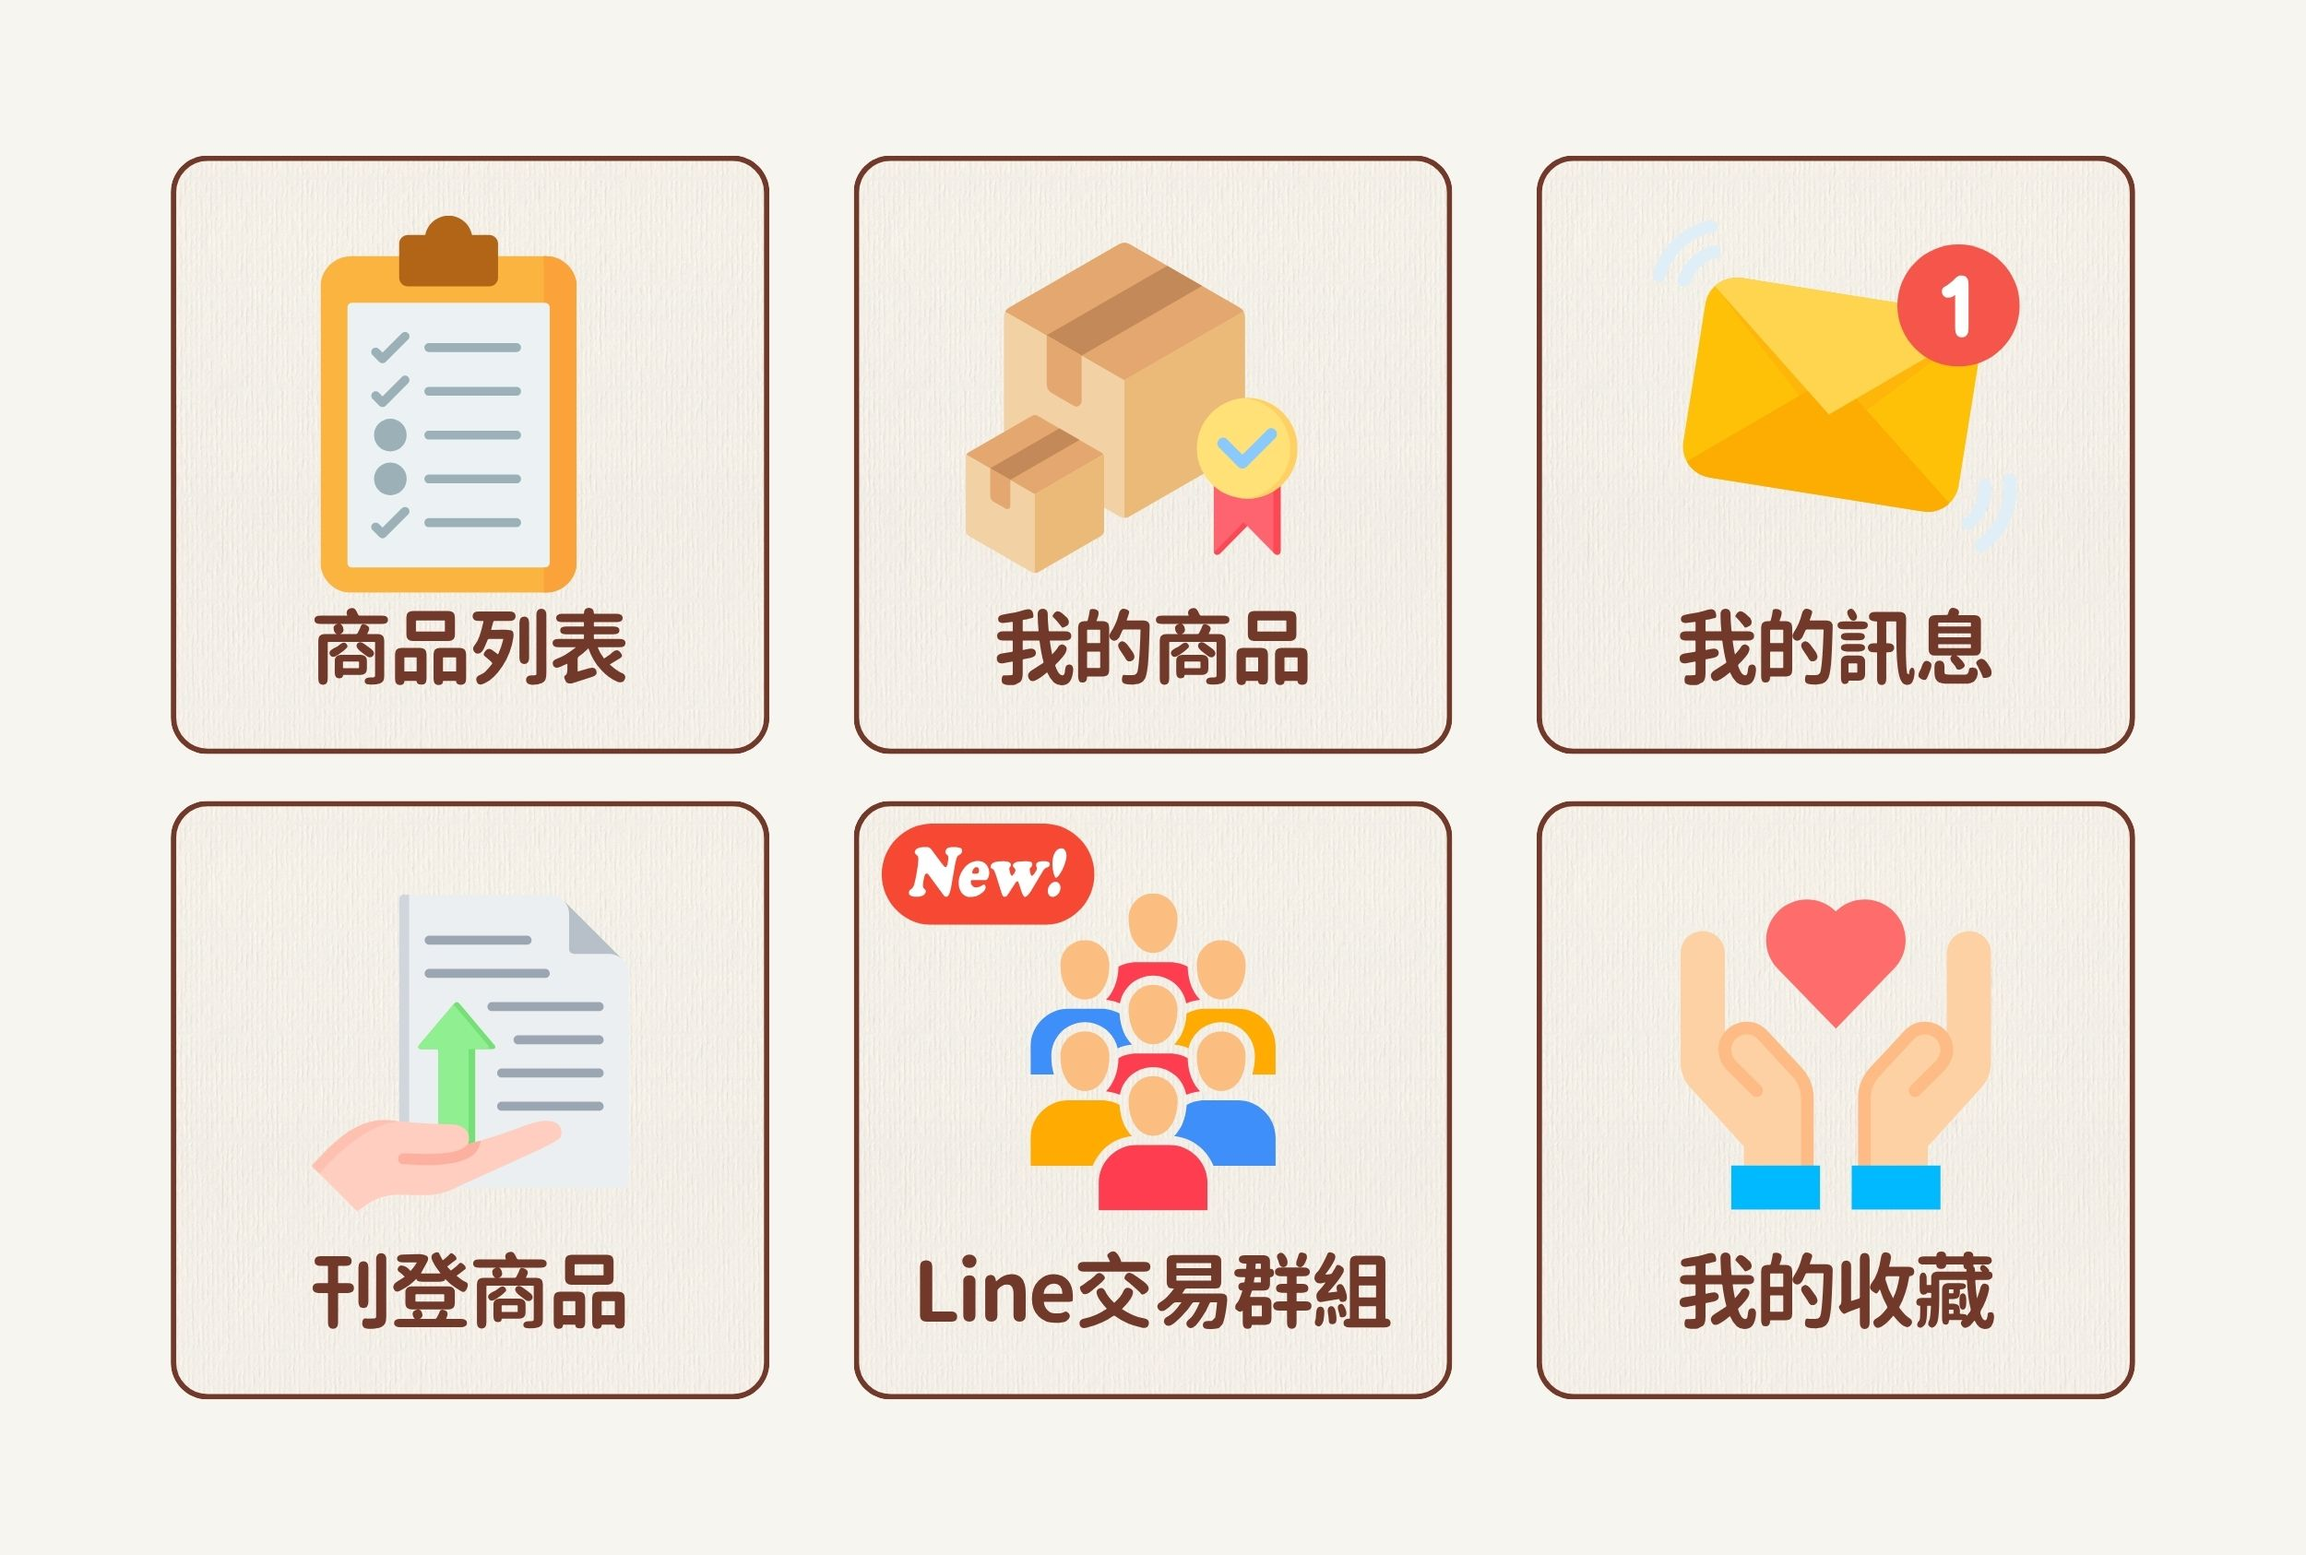
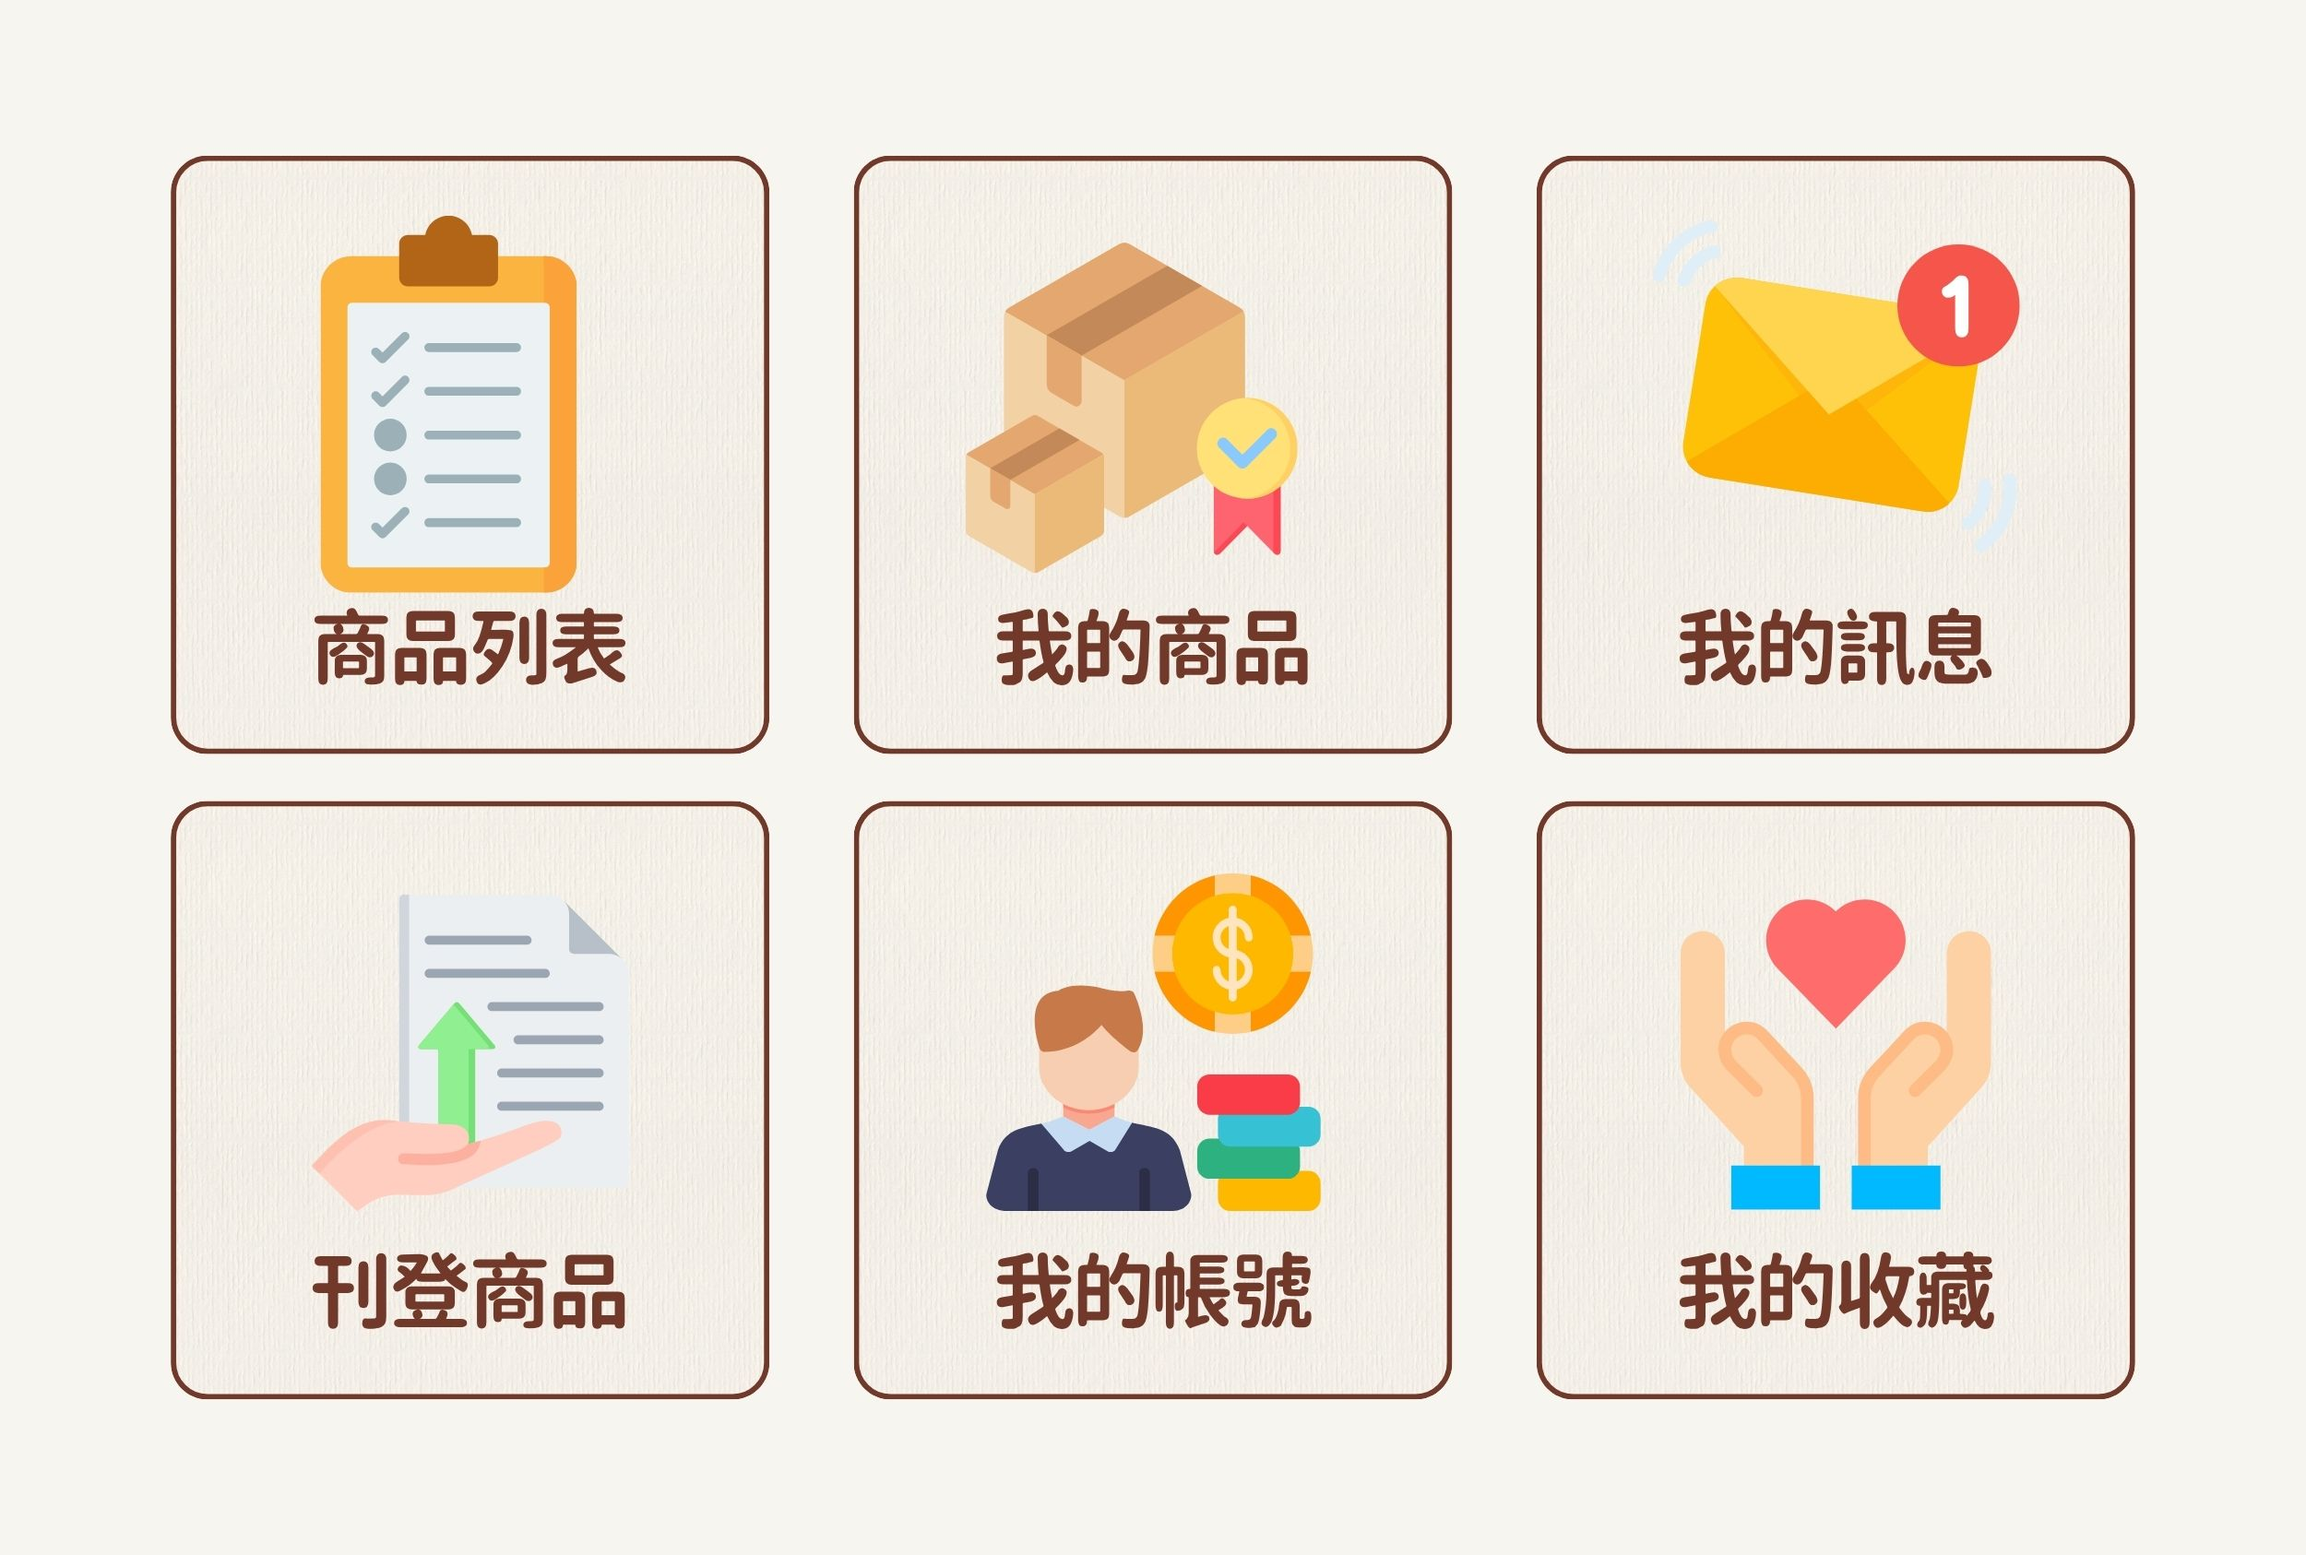
revert: roll back to 307ad12 state
Revert 41c1b39, 7411d26, da1ba9f, and 9437c40 to restore codebase as of 307ad12 without rewriting history.

Changed region(s): [[0.3744, 0.5243, 0.624, 0.8636]]

diff --git a/NeighborGoods.Frontend/src/features/listings/utils/lineShare.ts b/NeighborGoods.Frontend/src/features/listings/utils/lineShare.ts
@@ -369,37 +369,8 @@ const safeSharePickerAvailable = (liff: { isApiAvailable: (api: string) => boole
   }
 }
 
-type LiffClient = import('@line/liff').Liff
-
-/** 單例 liff.init；一律傳入 liffId，已初始化時視為成功（對齊 LineNotifyLiffPage） */
-const runLiffInitOnce = async (liff: LiffClient, liffId: string): Promise<boolean> => {
-  const trimmed = liffId.trim()
-  if (!trimmed) {
-    return false
-  }
-
-  if (!liffReadyPromise) {
-    liffReadyPromise = (async () => {
-      try {
-        await liff.init({ liffId: trimmed })
-        return true
-      } catch (err) {
-        try {
-          liff.getVersion()
-          return true
-        } catch {
-          console.warn('[liff] init failed', err)
-          return false
-        }
-      }
-    })()
-  }
-
-  return liffReadyPromise
-}
-
 export const ensureLiffReady = async () => {
-  const liffId = getLineLiffId()?.trim()
+  const liffId = getLineLiffId()
   if (!liffId) {
     return null
   }
@@ -417,7 +388,13 @@ export const ensureLiffReady = async () => {
     }
   }
 
-  const ok = await runLiffInitOnce(liff, liffId)
+  if (!liffReadyPromise) {
+    liffReadyPromise = liff
+      .init({ liffId })
+      .then(() => true)
+      .catch(() => false)
+  }
+  const ok = await liffReadyPromise
   if (!ok) {
     resetLiffReadyCache()
     return null
@@ -524,21 +501,25 @@ export const testLiffInitOnCurrentPage = async (): Promise<ListingPageLiffInitTe
   }
 }
 
-/** 分享頁：一律走 runLiffInitOnce 傳入 liffId（不僅靠 getVersion 提早返回） */
+/** 分享頁專用：一律明確 init（對齊 LiffDebugPage.runLiffInitAttempt / LineNotifyLiffPage） */
 export const initLiffForFlexShare = async () => {
-  const liffId = getLineLiffId()?.trim()
+  const liffId = getLineLiffId()
   if (!liffId || !isLiffEndpointPath()) {
     return null
   }
 
+  resetLiffReadyCache()
   const liffMod = await import('@line/liff')
   const liff = liffMod.default
-  const ok = await runLiffInitOnce(liff, liffId)
-  if (!ok) {
-    resetLiffReadyCache()
+  try {
+    await liff.init({ liffId })
+    liffReadyPromise = Promise.resolve(true)
+    return liff
+  } catch (err) {
+    liffReadyPromise = Promise.resolve(false)
+    console.warn('[listing flex share] liff.init failed', err)
     return null
   }
-  return liff
 }
 
 const openLineUrlShareWindow = (shareUrl: string) => {

diff --git a/NeighborGoods.Frontend/src/features/listings/pages/ListingShareLiffPage.tsx b/NeighborGoods.Frontend/src/features/listings/pages/ListingShareLiffPage.tsx
@@ -2,7 +2,6 @@ import { useEffect, useMemo, useState } from 'react'
 import { useLocation, useNavigate } from 'react-router-dom'
 import {
   clearListingSharePending,
-  isListingShareUrlReady,
   resolveListingShareParams,
 } from '@/features/listings/listingShareSession'
 import { shareListingToLineFlexOnly } from '@/features/listings/utils/lineShare'
@@ -16,25 +15,14 @@ export const ListingShareLiffPage = () => {
   const [phase, setPhase] = useState<SharePhase>('loading')
   const [message, setMessage] = useState('準備分享中…')
 
-  const shareUrlReady = useMemo(
-    () => isListingShareUrlReady(location.pathname, location.search),
-    [location.pathname, location.search],
-  )
-
   const shareParams = useMemo(
-    () => (shareUrlReady ? resolveListingShareParams(location.search) : null),
-    [location.search, shareUrlReady],
+    () => resolveListingShareParams(location.search),
+    [location.search],
   )
 
   const returnTo = shareParams?.returnTo ?? '/listings'
 
   useEffect(() => {
-    if (!shareUrlReady) {
-      setPhase('loading')
-      setMessage('準備分享中…')
-      return
-    }
-
     let disposed = false
 
     void (async () => {
@@ -99,7 +87,7 @@ export const ListingShareLiffPage = () => {
     return () => {
       disposed = true
     }
-  }, [shareParams, shareUrlReady])
+  }, [shareParams])
 
   return (
     <main className="mx-auto flex min-h-[50vh] max-w-md flex-col justify-center gap-4 px-4 py-8">

diff --git a/NeighborGoods.Frontend/src/features/listings/listingShareSession.ts b/NeighborGoods.Frontend/src/features/listings/listingShareSession.ts
@@ -132,10 +132,6 @@ export const listingShareEntryNeedsCleanup = (pathname: string, search: string):
   return false
 }
 
-/** 分享流程可開始：已在 `/` 且 URL 不需再清理（避免 messy liff.state 上搶跑 init） */
-export const isListingShareUrlReady = (pathname: string, search: string): boolean =>
-  pathname === '/' && !listingShareEntryNeedsCleanup(pathname, search)
-
 export const buildCleanListingShareEntrySearch = (search: string): string => {
   const raw = search.startsWith('?') ? search.slice(1) : search
   const params = new URLSearchParams(raw)

diff --git a/infra/line/README.md b/infra/line/README.md
@@ -10,9 +10,8 @@ This folder contains a PowerShell script that creates and deploys one LINE rich 
 
 - A valid LINE Messaging API channel access token
 - PowerShell 7+ (recommended)
-  - Rich menu image in supported size/format
+- A rich menu image in supported size/format
   - Script uses full-size 6-area layout: `2500x1686` (2 rows x 3 columns)
-  - Messaging API max file size: **1 MB** (management console allows larger files)
   - Content type must match file:
     - PNG: `image/png`
     - JPG/JPEG: `image/jpeg`
@@ -20,12 +19,12 @@ This folder contains a PowerShell script that creates and deploys one LINE rich 
 ## Actions configured in this script
 
 - Row 1, Area 1: open listings entry (`uri`)
-  - If `LiffUrl` is provided (e.g. `https://liff.line.me/{LiffId}`), URI areas for listings/create/favorites use path links `liff.line.me/{LiffId}/listings` etc.
+  - If `LiffUrl` is provided (e.g. `https://liff.line.me/{LiffId}`), all four URI areas use path links `liff.line.me/{LiffId}/listings` etc.
   - Otherwise fallback to `$WebBaseUrl` + path
 - Row 1, Area 2: postback `action=myListings`
 - Row 1, Area 3: postback `action=myMessages`
 - Row 2, Area 1: open `$WebBaseUrl/listings/create` (`uri`)
-- Row 2, Area 2: open LINE group invite (`uri`) — `https://line.me/ti/g/gZrLPpCtDH`
+- Row 2, Area 2: open `$WebBaseUrl/account` (`uri`, or LIFF path `/account`)
 - Row 2, Area 3: open `$WebBaseUrl/favorites` (`uri`)
 
 Postback values are aligned with current backend webhook routing.
